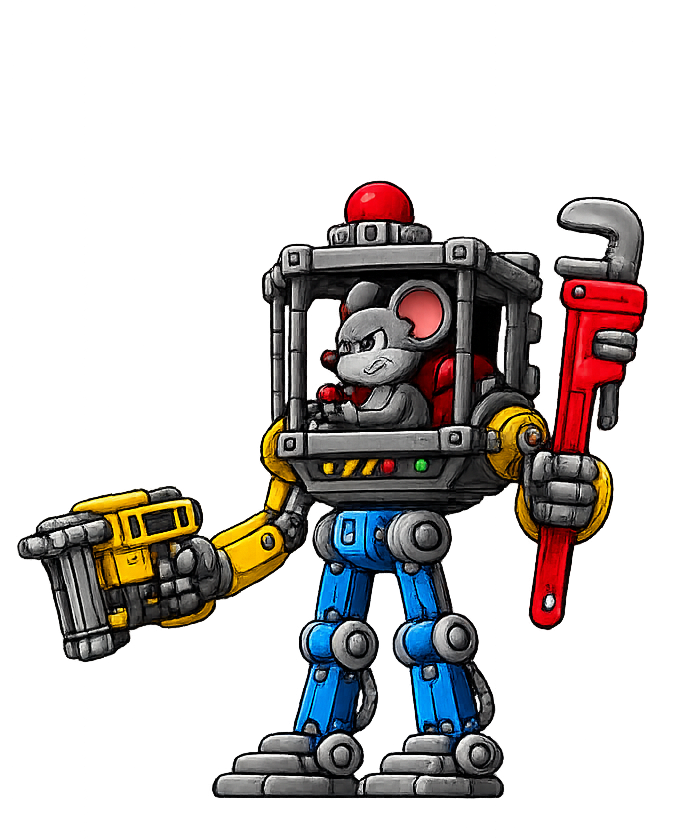
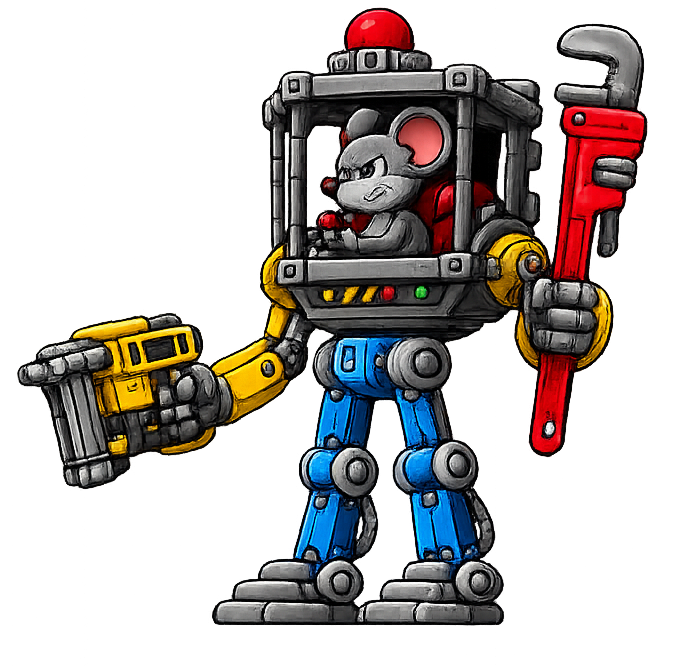
Alterações chefe 3

diff --git a/classes.py b/classes.py
@@ -1181,8 +1181,8 @@ class Boss3(pygame.sprite.Sprite):
 
         # Ataque de pregos
         self.nail_count    = 0
-        self.nail_max      = 5
-        self.nail_interval = 600
+        self.nail_max      = 4
+        self.nail_interval = 1200
         self.last_nail_t   = 0
 
         # Ataque de engrenagens
@@ -1474,7 +1474,10 @@ def draw_boss_sprite(surf, hp, attacking, tick):
     draw_boss_hpbar(surf,hp)
 
 def draw_hud(surf, score, phase):
-    pass  # score e fase removidos
+    surf.blit(font_med.render(f"SCORE: {score}",True,C_BLACK),(22,52))
+    surf.blit(font_med.render(f"SCORE: {score}",True,C_WHITE),(20,50))
+    surf.blit(font_small.render(f"Fase: {phase}",True,C_BLACK),(22,92))
+    surf.blit(font_small.render(f"Fase: {phase}",True,C_YELLOW),(20,90))
 
 def draw_game_over(surf, win):
     ov=pygame.Surface((WIDTH,HEIGHT),pygame.SRCALPHA)
@@ -1523,28 +1526,14 @@ class Bolinha:
     def draw(self,surf): surf.blit(bolinha_sprite,(int(self.x),int(self.y)))
 
 class PlayerBullet:
-    SPEED = 14
-    def __init__(self, x, y, d, target_x=None, target_y=None):
-        self.x = float(x); self.y = float(y); self.dir = d; self.alive = True
-        if target_x is not None and target_y is not None:
-            dx = target_x - x; dy = target_y - y
-            dist = max(1, (dx**2 + dy**2) ** 0.5)
-            self.vx = self.SPEED * dx / dist
-            self.vy = self.SPEED * dy / dist
-        else:
-            self.vx = self.SPEED * d; self.vy = 0
-        import math
-        angle = -math.degrees(math.atan2(self.vy, self.vx))
-        base = tiro_sprite if d == 1 else tiro_sprite_flip
-        self.spr = pygame.transform.rotate(base, angle)
-    def update(self):
-        if not self.alive: return  # não ressuscita tiro já morto
-        self.x += self.vx; self.y += self.vy
-        if not (-50 < self.x < WIDTH+50 and -50 < self.y < HEIGHT+50):
-            self.alive = False
-    def rect(self): return pygame.Rect(int(self.x), int(self.y), PBULLET_W, PBULLET_H)
-    def draw(self, surf):
-        if self.alive: surf.blit(self.spr, (int(self.x), int(self.y)))
+    def __init__(self,x,y,d):
+        self.x=float(x); self.y=float(y); self.dir=d; self.alive=True
+        # dir= 1 → vai para direita (tiro normal)
+        # dir=-1 → vai para esquerda (tiro espelhado)
+        self.spr = tiro_sprite if d == 1 else tiro_sprite_flip
+    def update(self): self.x+=12*self.dir; self.alive=-50<self.x<WIDTH+50
+    def rect(self): return pygame.Rect(int(self.x),int(self.y),PBULLET_W,PBULLET_H)
+    def draw(self,surf): surf.blit(self.spr,(int(self.x),int(self.y)))
 
 class Particle:
     def __init__(self,x,y,color):
@@ -1672,14 +1661,13 @@ class Player_2:
         self.x = max(0, min(PLATFORM_X - PLAYER_W - 5, self.x))
         if self.inv_timer>0: self.inv_timer-=1
         if self.shoot_cd>0:  self.shoot_cd-=1
-        self.shooting = pygame.mouse.get_pressed()[0]
+        self.shooting=keys[pygame.K_z] or keys[pygame.K_LCTRL]
     def shoot(self):
-        if self.shoot_cd == 0 and self.shooting:
-            self.shoot_cd = max(1, int(SHOOT_COOLDOWN / (1000 / FPS)))
-            bx = self.x + PLAYER_W if self.facing == 1 else self.x - PBULLET_W
-            by = self.y + PLAYER_H // 2 - PBULLET_H // 2
-            mx, my = pygame.mouse.get_pos()
-            return PlayerBullet(bx, by, self.facing, mx, my)
+        if self.shoot_cd==0 and self.shooting:
+            self.shoot_cd=12
+            bx = self.x+PLAYER_W if self.facing==1 else self.x-PBULLET_W
+            by = self.y+PLAYER_H//2-PBULLET_H//2
+            return PlayerBullet(bx,by,self.facing)
         return None
     def take_hit(self):
         if self.inv_timer==0: self.hp-=1; self.inv_timer=90; return True

diff --git a/config.py b/config.py
@@ -70,8 +70,8 @@ BOSS3_WIDTH       = 200        # Largura do sprite do boss
 BOSS3_HEIGHT      = 280        # Altura do sprite do boss
 MINE_SIZE         = 72         # Tamanho da mina terrestre
 NAIL_SPEED        = 7          # Velocidade do prego (mais lento que a bala do player)
-NAIL_WIDTH        = 90         # Largura do prego
-NAIL_HEIGHT       = 45         # Altura do prego
+NAIL_WIDTH        = 50         # Largura do prego
+NAIL_HEIGHT       = 25         # Altura do prego
 GEAR_SIZE         = 60         # Tamanho da engrenagem
 EXPLOSION_SIZE    = 120        # Tamanho do sprite de explosão
 EXPLOSION_DURATION = 400       # Duração da explosão em ms
@@ -178,7 +178,7 @@ MAP = [
     [EMPTY, EMPTY, EMPTY, EMPTY, EMPTY, EMPTY, EMPTY, EMPTY, EMPTY, EMPTY, EMPTY, EMPTY, EMPTY, EMPTY, EMPTY, EMPTY, EMPTY, EMPTY, EMPTY, EMPTY, EMPTY, EMPTY, EMPTY, EMPTY, EMPTY, EMPTY, EMPTY],
     [EMPTY, EMPTY, EMPTY, EMPTY, EMPTY, EMPTY, EMPTY, EMPTY, EMPTY, EMPTY, EMPTY, EMPTY, EMPTY, EMPTY, EMPTY, EMPTY, EMPTY, EMPTY, EMPTY, EMPTY, EMPTY, EMPTY, EMPTY, EMPTY, EMPTY, EMPTY, EMPTY],
     [EMPTY, EMPTY, EMPTY, EMPTY, EMPTY, EMPTY, EMPTY, EMPTY, EMPTY, EMPTY, EMPTY, EMPTY, EMPTY, EMPTY, EMPTY, EMPTY, EMPTY, EMPTY, EMPTY, EMPTY, EMPTY, EMPTY, EMPTY, EMPTY, EMPTY, EMPTY, EMPTY],
-    [EMPTY, EMPTY, EMPTY, CLOUD, EMPTY, EMPTY, EMPTY, EMPTY, EMPTY, EMPTY, EMPTY, EMPTY, EMPTY, EMPTY, EMPTY, EMPTY, EMPTY, EMPTY, EMPTY, EMPTY, EMPTY, EMPTY, EMPTY, CLOUD, EMPTY, EMPTY, EMPTY],
+    [EMPTY, EMPTY, CLOUD, EMPTY, EMPTY, EMPTY, EMPTY, EMPTY, EMPTY, EMPTY, EMPTY, EMPTY, EMPTY, EMPTY, EMPTY, EMPTY, EMPTY, EMPTY, EMPTY, EMPTY, EMPTY, EMPTY, EMPTY, EMPTY, CLOUD, EMPTY, EMPTY],
     [EMPTY, EMPTY, EMPTY, EMPTY, EMPTY, EMPTY, EMPTY, EMPTY, EMPTY, EMPTY, EMPTY, EMPTY, EMPTY, CLOUD, EMPTY, EMPTY, EMPTY, EMPTY, EMPTY, EMPTY, EMPTY, EMPTY, EMPTY, EMPTY, EMPTY, EMPTY, EMPTY],
     [EMPTY, EMPTY, EMPTY, EMPTY, EMPTY, EMPTY, EMPTY, EMPTY, EMPTY, EMPTY, EMPTY, EMPTY, EMPTY, EMPTY, EMPTY, EMPTY, EMPTY, EMPTY, EMPTY, EMPTY, EMPTY, EMPTY, EMPTY, EMPTY, EMPTY, EMPTY, EMPTY],
     [CLOUD, CLOUD, EMPTY, EMPTY, EMPTY, EMPTY, EMPTY, CLOUD, CLOUD, CLOUD, EMPTY, EMPTY, EMPTY, EMPTY, EMPTY, EMPTY, EMPTY, CLOUD, CLOUD, CLOUD, EMPTY, EMPTY, EMPTY, EMPTY, EMPTY, CLOUD, CLOUD],
@@ -329,24 +329,6 @@ state = INIT
 
 # relógio para controle de FPS
 clock = pygame.time.Clock()
-
-# --- Carrega imagens de vida do player
-def load_hp_imgs(img_dir):
-    """Carrega os sprites de HUD de vida (1, 2 e 3 vidas)."""
-    hp_imgs = {}
-    files = {1: '1vida.png', 2: '2vida.png', 3: '3vida.png'}
-    for key, filename in files.items():
-        full_path = path.join(img_dir, filename)
-        if path.exists(full_path):
-            hp_imgs[key] = pygame.image.load(full_path).convert_alpha()
-        else:
-            # Placeholder caso o arquivo não exista
-            surf = pygame.Surface((200, 60))
-            surf.fill((200, 50, 50) if key == 1 else (200, 200, 50) if key == 2 else (50, 200, 50))
-            hp_imgs[key] = surf
-    return hp_imgs
-
-hp_imgs = load_hp_imgs(img_dir)
 
 #region jaré da GV
 font_large = pygame.font.SysFont("Arial", 64, bold=True)